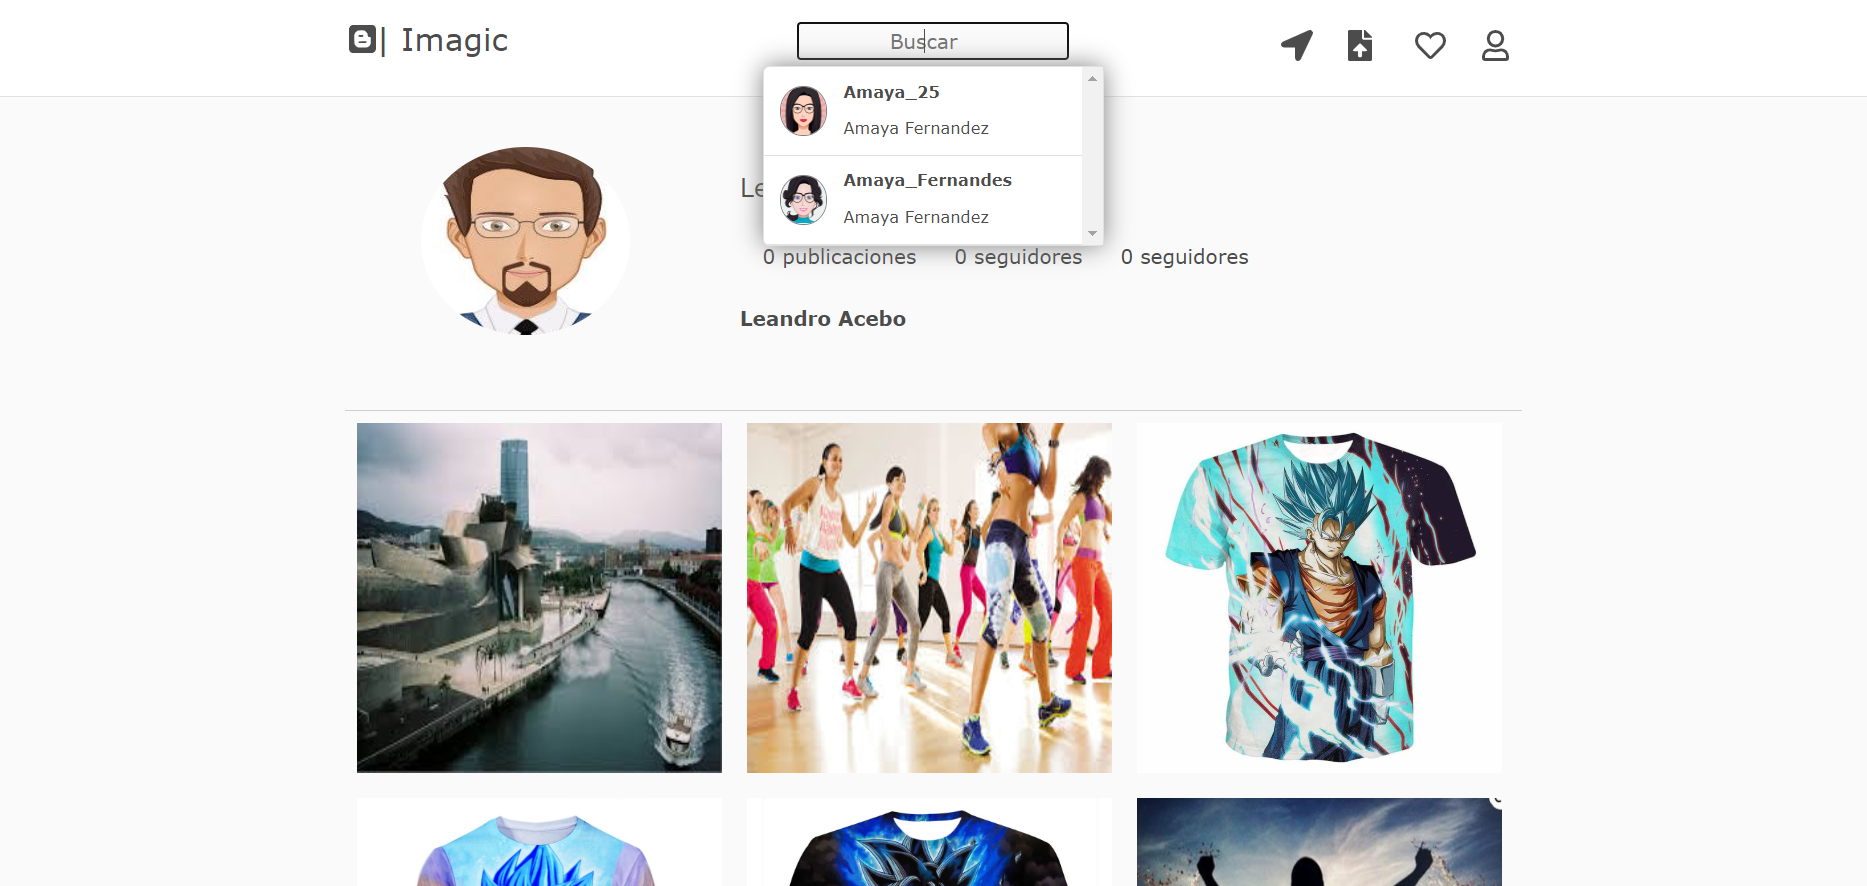
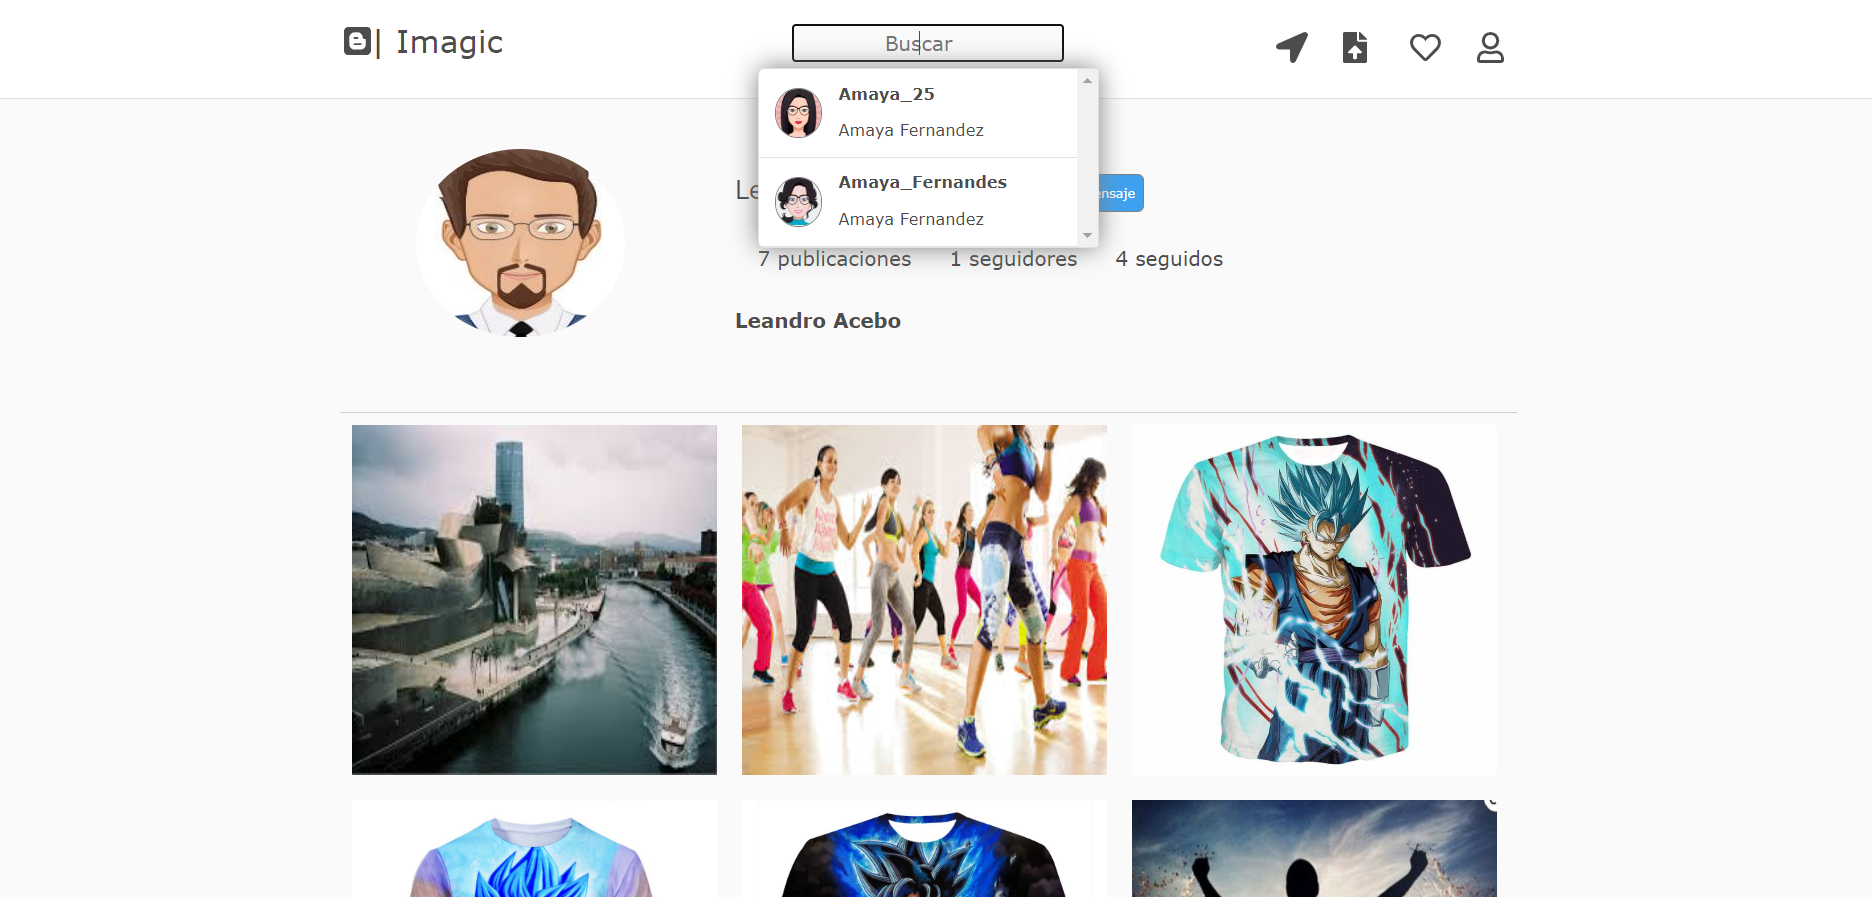
agregado funcion contar publicaciones, seguidores, seguidos

diff --git a/src/Components/Perfil/Perfil.js b/src/Components/Perfil/Perfil.js
@@ -8,7 +8,8 @@ import {faCog} from '@fortawesome/free-solid-svg-icons'
 import Services from '../../Services/Services';
 //components
 import FotoPerfil from '../FotoPerfil/FotoPerfil';
-import Comentario from '../Comentario/Comentario'
+import Comentario from '../Comentario/Comentario';
+import DivPublicaciones from '../DivPublicaciones/DivPublicaciones'
 //alertas
 import swal from 'sweetalert';
 
@@ -31,6 +32,7 @@ function Perfil(props){
     //se renderizara cada vez que se actualice la prop del indice del usaurio al que veamos el perfil
     },[props.arrayUsuario.id_usuario]);
 
+
     //funcion que comprobara si el usuario logueado sigue al usuario del que busca en el perfil
     const funcionComprobarSegumiento = (indiceNuevoUsuario) => {          
         Services.checkFollow(indiceNuevoUsuario ,localStorage.getItem('userKeyImagic'))
@@ -43,7 +45,7 @@ function Perfil(props){
                 setColorBotonSeguir(false)
             }
         })        
-    }
+    };
 
     const handleClickComponenteComentario = (event) => { 
        if(ventanaComentario){
@@ -96,9 +98,9 @@ function Perfil(props){
                         setColorBotonSeguir(false);
                     }                
                 });
+
                 swal("Ok", "Ya no le sigues", "success");
-            } else {
-              swal("Your imaginary file is safe!");
+
             }
           });
             
@@ -159,12 +161,8 @@ function Perfil(props){
                     }
                         
                     </div>
-
-                    <div className='divDatosSeguidores'>
-                        <p>0 publicaciones</p>
-                        <p>0 seguidores</p>
-                        <p>0 seguidores</p>
-                    </div>
+               
+                    <DivPublicaciones id_usuario={props.arrayUsuario.id_usuario}></DivPublicaciones>                                   
 
                     <div className='divNombreUsuario'>
                         <p><strong>{props.arrayUsuario.nombre_completo}</strong></p>

diff --git a/src/Components/DivPublicaciones/DivPublicaciones.js b/src/Components/DivPublicaciones/DivPublicaciones.js
@@ -1,0 +1,47 @@
+import React, {useState, useEffect} from 'react';
+//css
+import './DivPublicaciones.css';
+//Services
+import Services from '../../Services/Services';
+
+function DivPublicaciones(props){
+
+    const [publicaciones, setPublicaciones] = useState('');
+    const [seguidores, setSeguidores] = useState('');
+    const [seguidos, setSeguidos] = useState('');
+
+    useEffect( () => {
+        datosPublicaciones(props.id_usuario);
+
+        return () => {
+        }
+    },[props.id_usuario])
+
+
+    const datosPublicaciones = (id) => {
+
+        Services.countPublicity(id)
+        .then( response => {
+            setPublicaciones(response.data[0].files);
+            return Services.countFollower(id)
+        })
+        .then(response => {
+            setSeguidores(response.data[0].files);
+            return Services.countFollow(id)
+        })
+        .then(response => {
+            setSeguidos(response.data[0].files);
+        })
+        .catch(err => console.log(err))
+    }
+
+    return(
+        <div className='divDatosSeguidores'>
+            <p>{publicaciones} publicaciones</p>
+            <p>{seguidores} seguidores</p>
+            <p>{seguidos} seguidos</p>
+        </div>
+    )
+}
+
+export default DivPublicaciones;

diff --git a/src/Services/Services.js b/src/Services/Services.js
@@ -52,6 +52,17 @@ const checkFollow = (data1, data2) => {
     return fetch(process.env.REACT_APP_RUTA+'/checkFollow/'+data1+'/'+data2, {method:'GET'}).then(data => data.json())
 }
 
+const countPublicity = (data) => {
+    return fetch(process.env.REACT_APP_RUTA+'/countPublicity/'+data,{method:'GET'}).then(data => data.json())
+}
+
+const countFollower = (data) => {
+    return fetch(process.env.REACT_APP_RUTA+'/countFollower/'+data,{method:'GET'}).then(data => data.json())
+}
+const countFollow = (data) => {
+    return fetch(process.env.REACT_APP_RUTA+'/countFollow/'+data,{method:'GET'}).then(data => data.json())
+}
+
 export default 
     {
         addUser,
@@ -66,5 +77,8 @@ export default
         getUserByUserName,
         addFollow,
         deleteFollow,
-        checkFollow
+        checkFollow,
+        countPublicity,
+        countFollower,
+        countFollow
     }

diff --git a/src/Components/Perfil/Perfil.css b/src/Components/Perfil/Perfil.css
@@ -91,19 +91,6 @@
     font-size: 25px;
 }
 
-.divDatosSeguidores{
-    width: 100%;
-    height: 50px;
-    margin-top: 10px;
-    /* background: brown; */
-    float: left;
-}
-
-.divDatosSeguidores p{
-    margin-top: 10px;
-    margin-left: 5%;
-    float: left;
-}
 
 .divNombreUsuario{
     width: 100%;

diff --git a/src/Components/DivPublicaciones/DivPublicaciones.css b/src/Components/DivPublicaciones/DivPublicaciones.css
@@ -1,0 +1,13 @@
+.divDatosSeguidores{
+    width: 100%;
+    height: 50px;
+    margin-top: 10px;
+    /* background: brown; */
+    float: left;
+}
+
+.divDatosSeguidores p{
+    margin-top: 10px;
+    margin-left: 5%;
+    float: left;
+}
